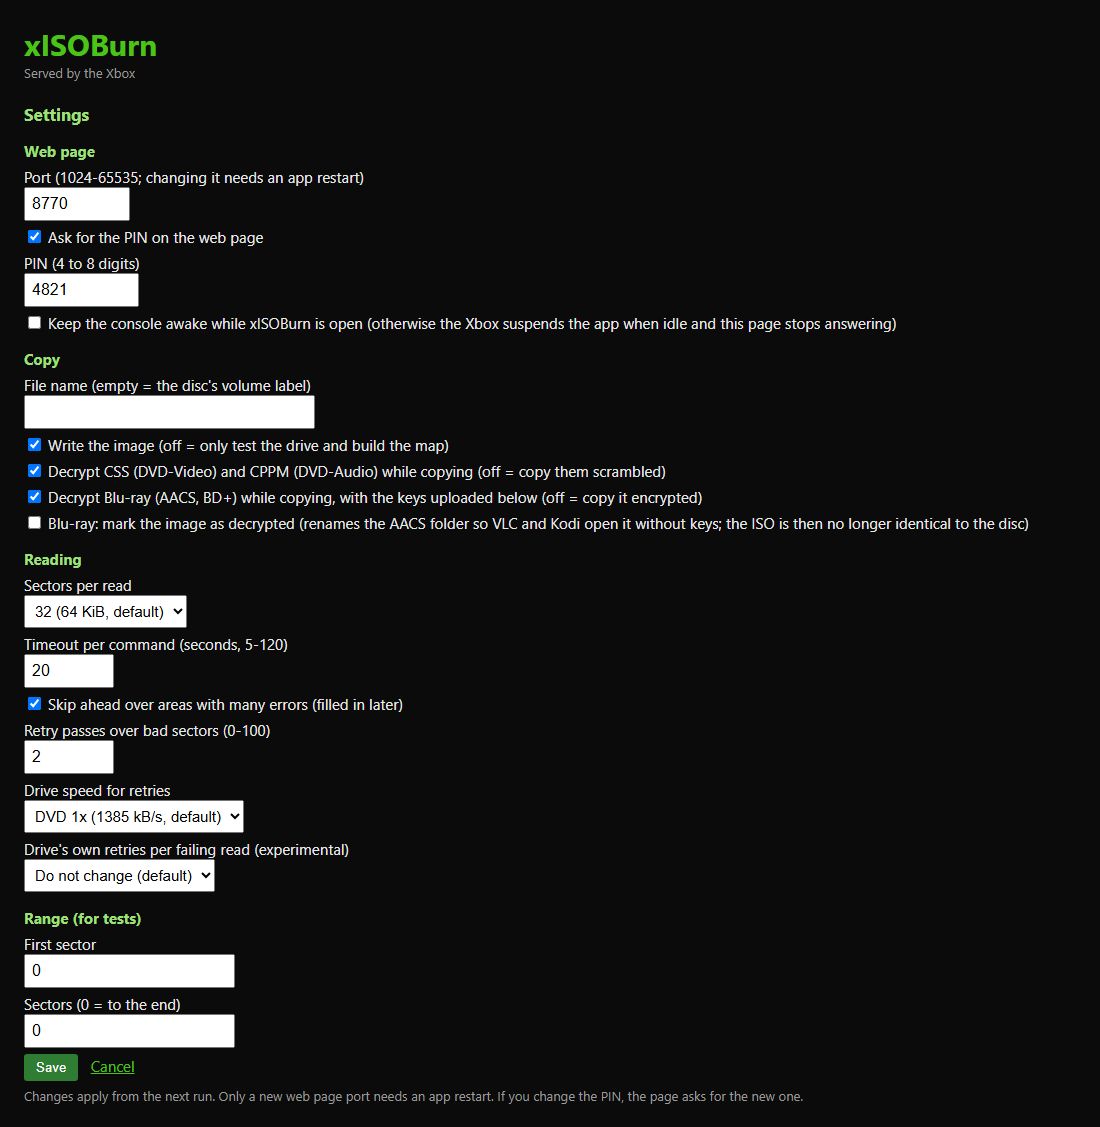
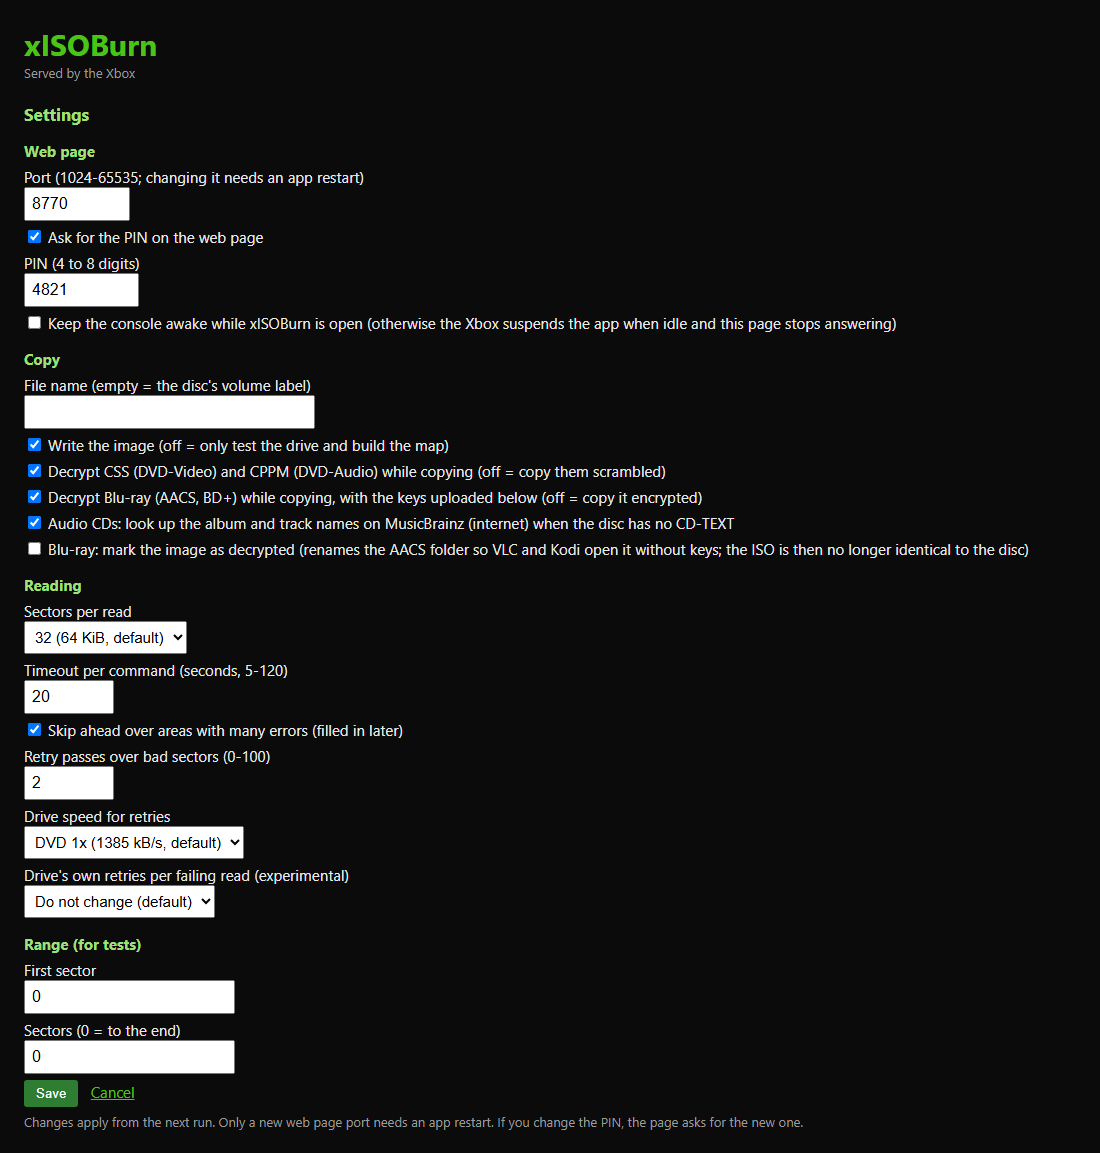
File name hint mentions audio CDs; CD lookup option after the Blu-ray ones on the web page

diff --git a/xbox-app/xISOBurn/MainPage.xaml b/xbox-app/xISOBurn/MainPage.xaml
@@ -110,7 +110,7 @@
                     </StackPanel>
 
                     <TextBlock Text="Copy" FontWeight="SemiBold" FontSize="15" Margin="0,8,0,0"/>
-                    <TextBox x:Name="OutputNameBox" Header="File name (empty = the disc's volume label)"/>
+                    <TextBox x:Name="OutputNameBox" Header="File name (empty = the disc's volume label, or Artist - Album for an audio CD)"/>
                     <CheckBox x:Name="WriteImageBox" Content="Write the image (off = only test the drive and build the map)"/>
                     <CheckBox x:Name="DecryptCssBox" Content="Decrypt CSS (DVD-Video) and CPPM (DVD-Audio) while copying (off = copy them scrambled)"/>
                     <CheckBox x:Name="DecryptBlurayBox" Content="Decrypt Blu-ray (AACS, BD+) while copying, with the keys uploaded on the web page"/>

diff --git a/xbox-app/xISOBurn/Core/WebServer.cs b/xbox-app/xISOBurn/Core/WebServer.cs
@@ -896,12 +896,12 @@ namespace xISOBurn.Core
             b.Append("<p>").Append(check("KeepAwake", cfg.KeepAwake)).Append("Keep the console awake while xISOBurn is open (otherwise the Xbox suspends the app when idle and this page stops answering)</label></p>");
 
             b.Append("<h3>Copy</h3>");
-            b.Append("<p>File name (empty = the disc's volume label)<br>").Append(text("OutputName", cfg.OutputName, "size=\"30\"")).Append("</p>");
+            b.Append("<p>File name (empty = the disc's volume label, or Artist - Album for an audio CD)<br>").Append(text("OutputName", cfg.OutputName, "size=\"30\"")).Append("</p>");
             b.Append("<p>").Append(check("WriteImage", cfg.WriteImage)).Append("Write the image (off = only test the drive and build the map)</label></p>");
             b.Append("<p>").Append(check("DecryptCss", cfg.DecryptCss)).Append("Decrypt CSS (DVD-Video) and CPPM (DVD-Audio) while copying (off = copy them scrambled)</label></p>");
             b.Append("<p>").Append(check("DecryptBluray", cfg.DecryptBluray)).Append("Decrypt Blu-ray (AACS, BD+) while copying, with the keys uploaded below (off = copy it encrypted)</label></p>");
-            b.Append("<p>").Append(check("CdLookupOnline", cfg.CdLookupOnline)).Append("Audio CDs: look up the album and track names on MusicBrainz (internet) when the disc has no CD-TEXT</label></p>");
             b.Append("<p>").Append(check("MarkBlurayDecrypted", cfg.MarkBlurayDecrypted)).Append("Blu-ray: mark the image as decrypted (renames the AACS folder so VLC and Kodi open it without keys; the ISO is then no longer identical to the disc)</label></p>");
+            b.Append("<p>").Append(check("CdLookupOnline", cfg.CdLookupOnline)).Append("Audio CDs: look up the album and track names on MusicBrainz (internet) when the disc has no CD-TEXT</label></p>");
 
             b.Append("<h3>Reading</h3>");
             b.Append("<p>Sectors per read<br>").Append(select("SectorsPerRead", val("SectorsPerRead", cfg.SectorsPerRead.ToString(inv)), new[]
